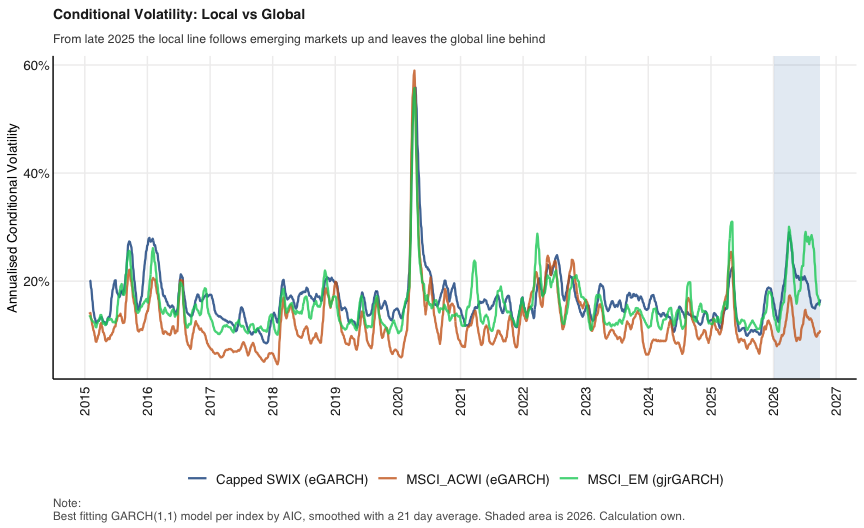
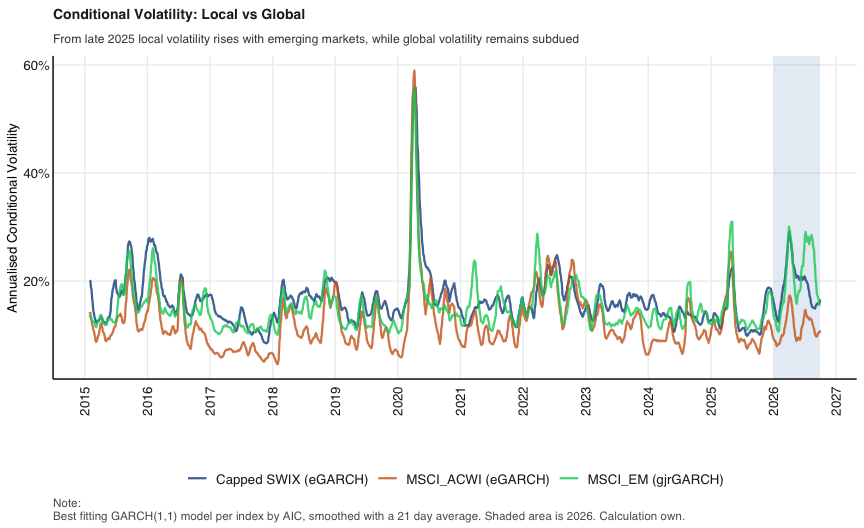
Analysis change Q1 PART A

Changed region(s): [[0.1562, 0.0606, 0.6875, 0.0909]]

diff --git a/README.md b/README.md
@@ -1,16 +1,16 @@
 # Purpose
 
-This repository holds my answers to the 2026 Financial Econometrics
-practical exam, student number 24991422. This README is the document to
-read, because it walks through the code and the thinking behind every
-question in the order the paper asks them. The finished write-ups sit in
-the `Questions` folder, with one folder per question.
+This repository contains the answers to the 2026 Financial Econometrics
+practical examination for student number 24991422. This README is the
+primary document, as it sets out the code and the reasoning behind each
+question in the order in which the paper presents them. The finished
+write-ups are stored in the `Questions` folder, with one folder per
+question.
 
-The layout follows a simple rule. Every function I wrote lives in the
-`code` folder, split into one subfolder per question, and this README
-only calls those functions. The data lives in the `data` folder, which
-is deliberately left out of the repository through the `.gitignore`
-file.
+The repository follows a consistent structure. Every function is stored
+in the `code` folder, with one subfolder per question, and this README
+only calls those functions. The data is stored in the `data` folder,
+which is excluded from the repository through the `.gitignore` file.
 
 ``` r
 rm(list = ls()) # clean the environment so that nothing old leaks into the results
@@ -19,18 +19,18 @@ gc() # garbage collection, which hands memory back to the operating system after
 
     ##          used (Mb) gc trigger (Mb) limit (Mb) max used (Mb)
     ## Ncells 496939 26.6    1061937 56.8         NA   715777 38.3
-    ## Vcells 932281  7.2    8388608 64.0      16384  2011345 15.4
+    ## Vcells 932499  7.2    8388608 64.0      16384  2011345 15.4
 
 ``` r
 library(tidyverse) # load the tidyverse for data wrangling and plotting
 list.files('code/', full.names = T, recursive = T) %>% .[grepl('.R', .)] %>% as.list() %>% walk(~source(.)) # source every function saved in the code folder and its subfolders
 ```
 
-# How this folder was built
+# Folder Construction
 
 The root project was created with `fmxdat::make_project()`, and each
 question folder was created with Texevier. The chunk below records those
-calls for transparency. It is not evaluated, because the folders already
+calls for transparency but is not evaluated, since the folders already
 exist.
 
 ``` r
@@ -53,7 +53,7 @@ options(dplyr.summarise.inform = F) # stop summarise from printing a grouping me
 options(scipen = 999) # show numbers in full instead of scientific notation
 ```
 
-# Question 1: Exploring Risk and Uncertainty
+# Question 1, Exploring Risk and Uncertainty
 
 ``` r
 Uncertainty_Indexes <- read_rds("data/Econ_Uncertainty_Indexes.rds") # economic policy uncertainty indexes and the MOVE bond volatility index
@@ -68,29 +68,27 @@ SafeCore <- read_rds("data/SafeCore.rds") # monthly holdings and weights of the 
 Factor_Scores <- read_rds("data/Factor_Scores.rds") # third party factor scores per stock, where a lower value means a lower exposure
 ```
 
-## Part A: Has local volatility increased, and does it mirror the global experience?
+## Part A, Local Volatility in a Global Context
 
-### The thinking
+### Approach
 
-Before touching a model I had to decide what “increased volatility”
-should mean, because the answer depends on the yardstick. I settled on
-three questions that build on each other. Is the local market more
-volatile now than in its own recent past? Is the same true abroad? And
-when local volatility does rise, which global force is it actually
-responding to? The first two questions need a consistent measure of
-volatility across markets, while the third needs a way of sorting
-history into regimes.
+This part establishes whether volatility on the local exchange has
+increased and whether that increase mirrors the global experience. The
+analysis proceeds in four steps. It first compares annualised volatility
+across sub-periods, then traces the timing of volatility with a rolling
+window, then separates the volatility signal from noise using GARCH
+models, and finally stratifies the sample by global conditions to
+identify which external forces local volatility responds to.
 
-Three choices shape everything below. The Capped SWIX (J433) is my local
-yardstick, because it is the benchmark the fund is measured against and
-its caps stop one or two mega caps from driving the result. For the
-global side I use the MSCI All Country World index as the broad global
-experience and the MSCI Emerging Markets index as the peer group South
-Africa actually belongs to. Lastly, the global indexes are quoted in
-dollars while the local index is in rand. I keep each in its own
-currency on purpose, since the question is about the volatility each
-investor base lives through, but it does mean that part of any gap
-reflects the rand.
+Three choices shape the analysis. The Capped SWIX (J433) serves as the
+local yardstick, since it is the fund’s benchmark in Part B and its
+capping prevents a handful of large shares from dominating the result.
+The MSCI All Country World index represents the global experience, while
+the MSCI Emerging Markets index represents the peer group to which South
+Africa belongs. The local index is quoted in rand and the MSCI indexes
+in dollars, and each is kept in its own currency because the question
+concerns the volatility that each investor base experiences. Part of any
+difference between them may therefore reflect movements in the rand.
 
 ``` r
 Local_Rets <- Idx_Daily %>% filter(Name %in% c("Capped SWIX", "Top 40", "MidCaps", "SmallCaps")) %>% mutate(dlogret = log(1 + Returns)) %>% select(date, Name, Returns, dlogret) # keep the four vanilla local indexes and add log returns for the volatility models
@@ -98,12 +96,12 @@ Global_Rets <- read_rds("data/MSCI_Indexes.rds") %>% filter(Name %in% c("MSCI_AC
 All_Rets <- bind_rows(Local_Rets, Global_Rets) # stack local and global returns into one tidy data frame
 ```
 
-### Step 1: Volatility by period
+### Volatility by Period
 
-The simplest honest test is to cut the sample into periods and compare.
-I separate the calm pre-Covid years, the Covid year itself, the
-recovery, and then 2025 and 2026 on their own, since those are the years
-the seminar was about.
+The most direct test compares annualised volatility across periods. The
+sample is divided into the calm years before Covid, the Covid year
+itself, the recovery from 2021 to 2024, and 2025 and 2026 separately,
+since these two years are the focus of the seminar.
 
 ``` r
 Periods <- tibble(Period = c("2015-2019", "2020 (Covid)", "2021-2024", "2025", "2026 YTD"), # the names of the sub-periods
@@ -125,52 +123,57 @@ Vol_Periods %>% select(Name, Period, SD) %>% mutate(SD = scales::percent(SD, acc
 
 Annualised volatility by period
 
-The table already gives most of the answer. The Capped SWIX ran at 20.7
-percent in 2026, well above the 15.7 percent of 2021 to 2024 and above
-its full sample level of 17.8 percent. The global index tells the
-opposite story, with the MSCI ACWI at 12.0 percent in 2026, below its
-own full sample level of 14.1 percent. Emerging markets, however, jumped
-to 25.2 percent. Local volatility has therefore risen, but it is an
-emerging market experience and not a global one. Small caps stand out as
-well, since their volatility barely moved in 2026, which is an early
-hint that the turbulence sits in the large, globally exposed shares.
+The table shows that local volatility rose in 2026 while global
+volatility did not. The Capped SWIX recorded annualised volatility of
+20.7 percent in 2026, above the 15.7 percent of 2021 to 2024 and its
+full sample level of 17.8 percent. The MSCI ACWI moved in the opposite
+direction, at 12.0 percent in 2026 against a full sample level of 14.1
+percent, while the MSCI Emerging Markets index rose to 25.2 percent. The
+rise in local volatility therefore resembles the emerging market
+experience far more closely than the global one. Small caps are a
+notable exception, with volatility of 12.0 percent in 2026 against 14.0
+percent over the full sample, which suggests that the turbulence was
+concentrated in the larger and more globally exposed shares of the Top
+40, where volatility reached 22.4 percent.
 
-### Step 2: Rolling realised volatility
+### Rolling Realised Volatility
 
-Period averages hide timing, so the next step rolls a three month window
-(63 trading days) through the sample. I chose three months because it is
-long enough to be a stable estimate and short enough to show when a
-volatility episode starts and ends. The dashed line is each index’s own
-long run average.
+Period averages conceal the timing of volatility, so a rolling window of
+three months (63 trading days) is passed through the sample. Three
+months is long enough to give a stable estimate and short enough to show
+when an episode begins and ends. The dashed lines in the figure mark
+each index’s own long run average.
 
 ``` r
 Roll_Vol <- Roll_SD_Calc(All_Rets, NSel = 63) # rolling three month annualised volatility for every index
 Plot_Roll_Vol(Roll_Vol %>% filter(Name %in% c("Capped SWIX", "MSCI_ACWI", "MSCI_EM")), # plot the local benchmark against the global and emerging market indexes
               Title = "Rolling 3 Month Realised Volatility", # the plot title
-              Subtitle = "Local volatility spiked in 2026 alongside emerging markets, while global volatility stayed below average", # the main message
+              Subtitle = "Local volatility rose in 2026 alongside emerging markets, while global volatility stayed below its average", # the main message
               Caption = "Note:\nDashed lines show each index's own average. Local index in ZAR, MSCI indexes in USD. Calculation own.") # the note under the plot
 ```
 
 ![](README_files/figure-markdown_github/q1a_rolling-1.png)
 
-Two things come out of this. The 2026 episode was real, with local
-rolling volatility peaking at 27 percent in April 2026, its highest
-reading outside of Covid and the 2015 to 2016 commodity slump. It was
-also temporary, and by the end of September 2026 the measure was back at
-15 percent, almost exactly its median. A fair reading is that the local
-market went through a sharp volatility episode and not a permanent shift
-to a higher level.
+The figure shows that the 2026 increase was a pronounced but temporary
+episode. Rolling local volatility peaked at 27 percent in April 2026,
+its highest level outside of the Covid crash and the 2015 to 2016
+sell-off. By the end of September 2026 it had fallen back to 15 percent,
+close to the median of its own history. Emerging market volatility
+followed a similar path at a higher level, peaking at 31 percent in
+July, while the global index peaked at only 14.7 percent against its
+average of 12.6 percent. The evidence points to a volatility episode
+rather than a lasting shift to a higher level of local volatility.
 
-### Step 3: A noise reduced view using GARCH
+### Conditional Volatility from GARCH Models
 
-Realised volatility has a weakness. A single large return stays in the
-window for three months and then drops out, which creates the cliff
-edges visible in mid 2025. A GARCH model avoids this by separating the
-volatility signal from the noise, as we covered in the volatility
-practical. I do not want to assume a specification, so the function
-below fits four candidates per index (standard GARCH, GJR, EGARCH and
-APARCH), each with an AR(1) mean and student t errors, and keeps the one
-with the lowest AIC.
+Realised volatility has a mechanical weakness, since a single large
+return remains in the window for three months and then drops out
+abruptly, which produces the cliff edges visible in mid 2025. A GARCH
+model avoids this by separating the volatility signal from the noise in
+returns. To avoid imposing a specification, the function fits four
+candidate models to each index, namely the standard GARCH, GJR, EGARCH
+and APARCH, each with an AR(1) mean equation and student t errors, and
+retains the model with the lowest AIC.
 
 ``` r
 Garch_Sigma <- c("Capped SWIX", "MSCI_ACWI", "MSCI_EM") %>% map_df(~Best_Garch_Sigma(All_Rets, Series = .x)) # fit the best GARCH model to each index and stack the conditional volatility series
@@ -188,34 +191,39 @@ Chosen GARCH model per index
 ``` r
 Plot_Garch_Sigma(Garch_Sigma, # plot the three conditional volatility series together
                  Title = "Conditional Volatility: Local vs Global", # the plot title
-                 Subtitle = "From late 2025 the local line follows emerging markets up and leaves the global line behind", # the main message
+                 Subtitle = "From late 2025 local volatility rises with emerging markets, while global volatility remains subdued", # the main message
                  Caption = "Note:\nBest fitting GARCH(1,1) model per index by AIC, smoothed with a 21 day average. Shaded area is 2026. Calculation own.") # the note under the plot
 ```
 
 ![](README_files/figure-markdown_github/q1a_garch-1.png)
 
-For both the Capped SWIX and the global index the data prefer an EGARCH,
-and the emerging market index prefers a GJR. Both are asymmetric models,
-which tells us that bad news raises volatility by more than good news of
-the same size. That matters for the low volatility argument in the
-seminar, since it means volatility arrives precisely when returns are
-falling. Persistence is 0.97 locally, so a shock to volatility takes
-weeks to fade. The model agrees with the realised numbers, with local
-conditional volatility averaging 19.1 percent in 2026 against a full
-sample average of 16.5 percent, while the global figure sat at 11.6
-percent, slightly below its own norm of 12.2 percent.
+The data favour asymmetric models for all three indexes, with an EGARCH
+selected for the Capped SWIX and the global index and a GJR model for
+emerging markets. Asymmetry means that negative shocks raise volatility
+by more than positive shocks of the same size, so volatility tends to
+arrive when returns are already falling. This is relevant to the low
+volatility argument made at the seminar, since the protection a low
+volatility portfolio offers is most valuable in exactly those periods.
+Persistence of 0.97 for the Capped SWIX implies that half of a
+volatility shock is still present after roughly 24 trading days. Local
+conditional volatility averaged 19.1 percent in 2026 against 16.5
+percent over the full sample, while global conditional volatility
+averaged 11.6 percent, slightly below its own norm of 12.2 percent. With
+the noise removed, the GARCH estimates confirm the pattern found in
+realised volatility.
 
-### Step 4: What is local volatility responding to?
+### Volatility Across Global Regimes
 
-The seminar blamed oil price volatility and policy uncertainty. Rather
-than take that on faith, I stratify the sample in the way we did for
-rand volatility in the Practical 2 bonus. Each month is sorted by a
-state variable, and the top and bottom quintile of months are labelled
-High and Low. I then compare the Capped SWIX’s volatility inside those
-months to its full sample volatility. I run this for five states, namely
-the VIX, emerging market implied volatility (VXEEM), the rand volatility
-index (SAVIUSD), the global economic policy uncertainty index (EPUCGLCP)
-and the realised volatility of Brent oil.
+The seminar attributed rising local volatility to oil price volatility
+and global policy uncertainty. This claim is tested by stratifying the
+sample, following the approach used for rand volatility in the Practical
+2 bonus. Each month is ranked by a state variable, and the top and
+bottom quintiles of months are labelled high and low. The volatility of
+the Capped SWIX within those months is then compared with its full
+sample volatility. Five state variables are considered, namely the VIX,
+emerging market implied volatility (VXEEM), rand volatility (SAVIUSD),
+the global economic policy uncertainty index (EPUCGLCP), and the
+realised volatility of Brent oil.
 
 ``` r
 Gauges <- bind_rows(Implied_Vol, Uncertainty_Indexes, Local_Cncy_Vol_Index %>% select(-Description)) # stack the volatility and uncertainty gauges that are quoted as levels
@@ -224,51 +232,55 @@ State_df <- State_Monthly_Calc(Level_df = Gauges, Level_Sel = c("VIX", "VXEEM", 
 Vol_Strat <- Vol_Stratify(Local_Rets, States = State_df, Hi_Q = 0.8, Lo_Q = 0.2) # local index volatility in the high and low quintile months of each state
 Plot_Vol_Stratify(Vol_Strat, Index_Sel = "Capped SWIX", # plot the result for the local benchmark
                   Title = "Capped SWIX Volatility by Global Regime", # the plot title
-                  Subtitle = "Market based stress matters, while news based policy uncertainty on its own does not", # the main message
+                  Subtitle = "Market-based stress raises local volatility, while news-based policy uncertainty alone has little effect", # the main message
                   Caption = "Note:\nHigh and Low are the top and bottom quintile of months for each state variable since 2015. Calculation own.") # the note under the plot
 ```
 
 ![](README_files/figure-markdown_github/q1a_stratify-1.png)
 
-This is the most useful result of Part A. When oil volatility is in its
-top quintile, the Capped SWIX is 1.41 times as volatile as normal, and
-the figures for emerging market and US implied volatility are 1.50 and
-1.46. The policy uncertainty index is the exception. In its most
-uncertain months local volatility is only 1.06 times normal, and in its
-calmest months it is exactly normal. Policy uncertainty reached record
-levels in 2025 and 2026, yet it only shows up in local share prices once
-it is transmitted through a market channel such as oil or emerging
-market risk appetite.
+The figure separates market-based stress from news-based uncertainty. In
+months when oil volatility sits in its top quintile, the Capped SWIX is
+1.41 times as volatile as normal, and the equivalent ratios for emerging
+market and US implied volatility are 1.50 and 1.46. Rand volatility has
+a similar but smaller effect, at 1.34. Global policy uncertainty is the
+exception, with local volatility only 1.06 times normal in its most
+uncertain months and exactly normal in its calmest. Policy uncertainty
+reached its highest annual average since 2015 in 2025, at 394 against
+298 during the Covid year, yet it appears to affect local share prices
+only once it is transmitted through a market channel, such as oil prices
+or emerging market risk appetite.
 
-### Answer to Part A
+### Conclusion to Part A
 
-Local volatility has increased, but with two qualifications. It rose as
-an episode, peaking in April 2026 and normalising by September, and not
-as a new permanent level. It also does not mirror the global experience,
-since developed markets were calmer than usual over the same months. It
-mirrors emerging markets and the oil market. For a team that wants to
-build a risk ballast into a local fund, the implication is that the
-threat to plan for is a commodity and emerging market shock. A ballast
-that only protects against a rise in the VIX would have missed 2026.
+Local volatility has increased, subject to two qualifications. The
+increase took the form of an episode, peaking in April 2026 and
+normalising by September, rather than a permanent rise in the level of
+volatility. It also did not mirror the global experience, since
+developed market volatility remained below its average over the same
+months, and instead followed emerging markets and the oil market. For a
+team considering a risk ballast in a local fund, the relevant threat is
+therefore a commodity and emerging market shock. A ballast calibrated
+only to developed market stress would have missed the 2026 episode,
+since global volatility stayed below its average throughout.
 
 ## Part B
 
 ## Part C
 
-# Question 2: Mid, Small and Large Cap Indices
+# Question 2, Mid, Small and Large Cap Indices
 
 ``` r
 Size_Idx <- read_rds("data/Monthly_Index_Constituents.rds") # monthly constituents and weights for the Capped SWIX and the large, mid and small cap indexes
 ```
 
-# Question 3: Portfolio Return Comparison
+# Question 3, Portfolio Return Comparison
 
 ``` r
 Active_Manager_Peers <- read_rds("data/Active_Managers.rds") # monthly returns for the active manager peer group
 ABC_Fund <- read_rds("data/ABC_Fund.rds") # monthly returns for the ABC fund
 ```
 
-# Question 4: Portfolio Construction
+# Question 4, Portfolio Construction
 
 ``` r
 MSCI <- read_rds("data/MSCI_Indexes.rds") # total return indexes for the MSCI global equity indexes
